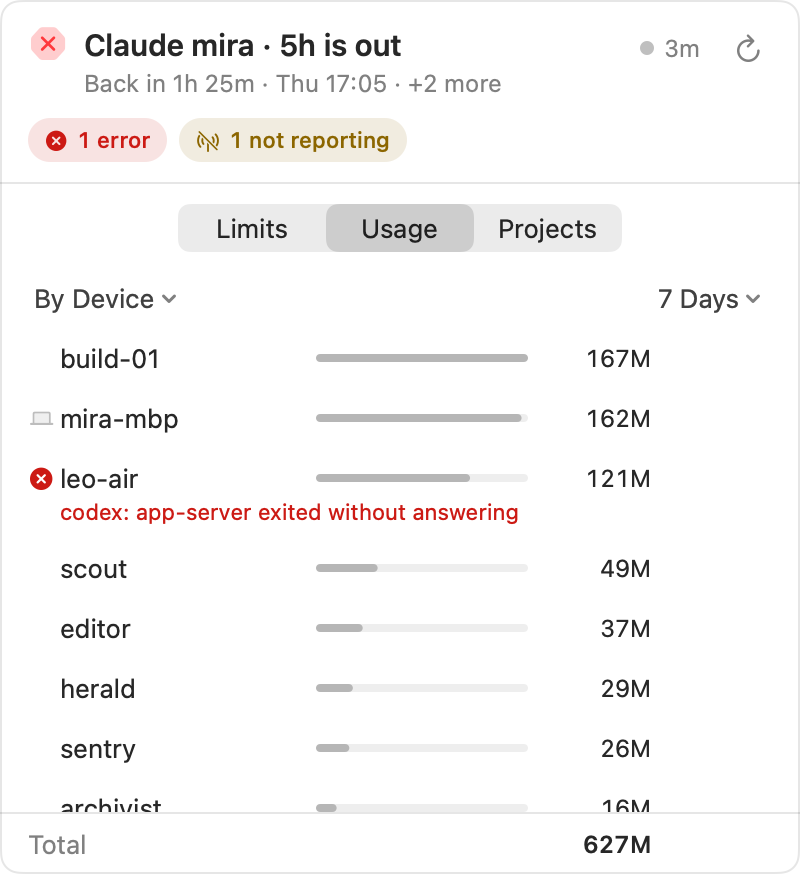
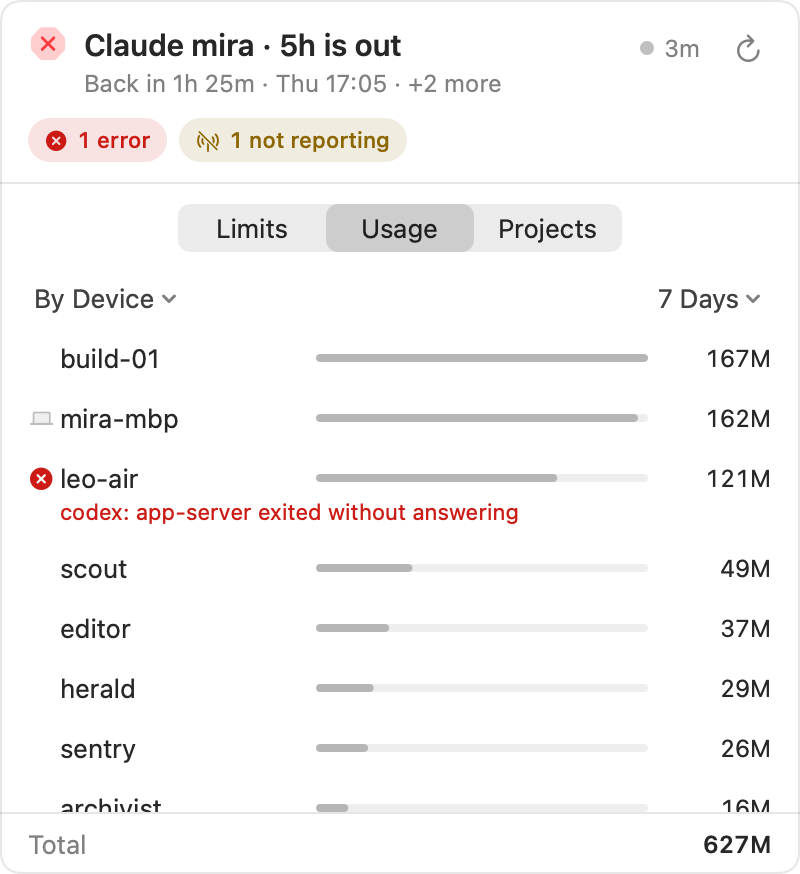
Show only the devices when a chip filters Usage, and end Usage's values at the margin.
A chip's filter showed the device list over the subscription list when Usage was by subscription. Usage's rows no longer keep an empty column for a countdown only Limits and Projects have. The lists scroll without a scroller: SwiftUI kept a legacy scroller's room after a tab switch even under an overlay style, which moved every column. The renderer draws Usage after each chip that filters it, from Usage by subscription.

diff --git a/macos/Sources/AIUsageBar/Style.swift b/macos/Sources/AIUsageBar/Style.swift
@@ -22,9 +22,10 @@ enum Metrics {
     /// the popover's edge, as a menu's highlight does.
     static let bleed: CGFloat = 9
 
-    // The grid every tab's rows share, so that switching tabs moves no
-    // column: a slot for a mark, the name, a bar that takes the rest, the
-    // value, and a trailing column for a countdown or an age.
+    // The grid every tab's rows share: a slot for a mark, the name, a bar
+    // that takes the rest, the value, and on Limits and Projects a trailing
+    // column for a countdown or an age. Usage has none, so its value ends
+    // at the margin rather than before an empty column.
     static let slot: CGFloat = 16
     static let name: CGFloat = 120
     static let gap: CGFloat = 8
@@ -428,7 +429,6 @@ struct TotalRow: View {
                         .font(.callout.weight(.semibold))
                         .monospacedDigit()
                         .frame(width: Metrics.value, alignment: .trailing)
-                    Color.clear.frame(width: Metrics.trailingGap + Metrics.trailing, height: 1)
                 }
             }
             .frame(height: Metrics.row)
@@ -543,42 +543,5 @@ struct MoreButton: View {
         .buttonStyle(.plain)
         .font(.callout)
         .foregroundStyle(.secondary)
-    }
-}
-
-/// Makes the scroll view it is in draw overlay scrollers, as the menu bar's
-/// own windows do, whatever System Settings says: a scroller that takes
-/// room of its own would move every column of a list that grows past the
-/// popover, as when a row opens.
-struct OverlayScrollers: NSViewRepresentable {
-    func makeNSView(context: Context) -> NSView { Probe() }
-    func updateNSView(_ view: NSView, context: Context) {
-        (view as? Probe)?.apply()
-    }
-
-    final class Probe: NSView {
-        override func viewDidMoveToWindow() {
-            super.viewDidMoveToWindow()
-            guard window != nil else { return }
-            apply()
-            NotificationCenter.default.removeObserver(self)
-            NotificationCenter.default.addObserver(self, selector: #selector(styleChanged),
-                                                   name: NSScroller.preferredScrollerStyleDidChangeNotification, object: nil)
-        }
-
-        @objc private func styleChanged() {
-            // After the scroll view has taken the new style itself.
-            DispatchQueue.main.async { [weak self] in
-                MainActor.assumeIsolated { self?.apply() }
-            }
-        }
-
-        func apply() {
-            guard let scroll = enclosingScrollView else { return }
-            if scroll.scrollerStyle != .overlay {
-                scroll.scrollerStyle = .overlay
-            }
-            scroll.autohidesScrollers = true
-        }
     }
 }

diff --git a/macos/Sources/AIUsageBar/Render.swift b/macos/Sources/AIUsageBar/Render.swift
@@ -40,10 +40,20 @@ enum Renderer {
                 if let d = report.team.devices.first(where: { $0.error != nil && !$0.silent }) ?? report.team.devices.first {
                     states.append(("usage-expanded", { $0.tab = .usage }, { $0.expanded = "dev:\(d.device)" }))
                 }
-                if let chip = Chip.chips(report).first(where: { $0.kind == .errors }) {
-                    states.append(("usage-filtered", { $0.tab = .limits }, {
+                // Usage after a click on each chip that filters it; the
+                // errors chip's is plain usage-filtered.
+                let filters: [(Chip.Kind, String, String)] = [
+                    (.errors, "usage-filtered", "Devices with errors"),
+                    (.silent, "usage-filtered-silent", "Devices not reporting"),
+                    (.notUpdating, "usage-filtered-not-updating", "Devices not updating"),
+                ]
+                for (kind, name, title) in filters {
+                    guard let chip = Chip.chips(report).first(where: { $0.kind == kind }) else { continue }
+                    // From Usage by subscription, so a filter that left that
+                    // list showing under the devices would show here.
+                    states.append((name, { $0.tab = .usage; $0.usageMode = .subscriptions }, {
                         $0.tab = .usage
-                        $0.deviceFilter = DeviceFilter(title: "Devices with errors", devices: Set(chip.devices), chip: chip.kind)
+                        $0.deviceFilter = DeviceFilter(title: title, devices: Set(chip.devices), chip: chip.kind)
                     }))
                 }
             }

diff --git a/macos/Sources/AIUsageBar/Usage.swift b/macos/Sources/AIUsageBar/Usage.swift
@@ -22,7 +22,8 @@ struct UsageView: View {
     }
 
     private func shown(_ mode: UsageMode, _ view: some View) -> some View {
-        let on = store.usageMode == mode || (mode == .devices && store.deviceFilter != nil)
+        // A chip's filter shows the devices whichever list was chosen.
+        let on = store.deviceFilter != nil ? mode == .devices : store.usageMode == mode
         return view
             .opacity(on ? 1 : 0)
             .allowsHitTesting(on)
@@ -171,7 +172,6 @@ private struct DeviceRow: View {
                     TokenBar(value: row.usage[p], top: top)
                         .padding(.horizontal, Metrics.gap)
                     TokensValue(tokens: row.usage[p])
-                    Color.clear.frame(width: Metrics.trailingGap + Metrics.trailing, height: 1)
                 }
                 .frame(height: Metrics.row)
                 if let note {
@@ -344,7 +344,6 @@ private struct ColumnRow: View {
                 TokenBar(value: c.usage[p], top: top)
                     .padding(.horizontal, Metrics.gap)
                 TokensValue(tokens: c.usage[p])
-                Color.clear.frame(width: Metrics.trailingGap + Metrics.trailing, height: 1)
             }
             .frame(height: Metrics.row)
         } details: {
@@ -441,7 +440,6 @@ private struct SoloRow: View {
                 .frame(maxWidth: .infinity)
                 .padding(.horizontal, Metrics.gap)
                 TokensValue(tokens: a.usage[p])
-                Color.clear.frame(width: Metrics.trailingGap + Metrics.trailing, height: 1)
             }
             .frame(height: Metrics.row)
         } details: {

diff --git a/macos/Sources/AIUsageBar/Popover.swift b/macos/Sources/AIUsageBar/Popover.swift
@@ -148,8 +148,7 @@ private struct TabPicker: View {
 /// itself, which blinks. Tabs of their own heights would do that on every
 /// switch; at one height, the popover keeps its size, and each tab keeps
 /// its scroll position. A tab's top line and total stay put while its list
-/// scrolls, and the scrollers overlay the list, so no column moves when a
-/// list grows past the popover.
+/// scrolls.
 private struct TabStack: View {
     @EnvironmentObject private var store: Store
     let report: Report
@@ -166,8 +165,14 @@ private struct TabStack: View {
                                 .padding(.horizontal, Metrics.inset)
                                 .padding(.bottom, 12)
                                 .measure(tab)
-                                .background(OverlayScrollers())
                         }
+                        // A scroller that takes room of its own, as System
+                        // Settings can ask for, would move every column of
+                        // a list that grows past the popover; SwiftUI keeps
+                        // that room even under an overlay style, so the
+                        // list scrolls without one, and its cut last row
+                        // over the total shows there is more.
+                        .scrollIndicators(.never)
                         .onChange(of: store.scrollTarget) { _, key in
                             guard tab == .limits, let key else { return }
                             proxy.scrollTo(key, anchor: .top)

diff --git a/design.md b/design.md
@@ -225,7 +225,7 @@ The popover answers the same questions as the page, in the same order, in 400 po
 - **A row is the account's state.** A Limits row shows its main window's bar and percent, and the account's state from the report: when another window stops it, the row takes that window's mark and counts down to when it is back, with the window named under it.
 - **Details on click.** A row is one line of numbers. A click opens its details under it, one row at a time, as a few lines of a dim label and a value: each window in what is left and will be at its reset, the devices that used it, errors, releases, paths, and the tokens of each period as a small table with the chosen one bright. What the row shows is not said again. Tooltips carry who read a window, and what a word or glyph needs.
 - **Projects by repository.** A project is a repository with its subfolders and worktrees. Projects next to each other in one folder show under its name, the ones on their own under "Other", in the report's order. Their last activity reads "20m ago", so it never passes for a countdown.
-- **Nothing blinks or jumps.** The popover takes its height from Limits, the tab people open it for, and keeps it while it is open, so switching tabs, opening details, and "Show All" scroll inside it; Usage keeps its top line and its total in place as its list scrolls. Scrollers overlay the list, whatever System Settings says, and every tab lays its rows on one grid, so no column moves. It opens on the last tab, with every row closed.
+- **Nothing blinks or jumps.** The popover takes its height from Limits, the tab people open it for, and keeps it while it is open, so switching tabs, opening details, and "Show All" scroll inside it; Usage keeps its top line and its total in place as its list scrolls. The lists scroll without a scroller, since one that takes room of its own, as System Settings can ask for, would move every column; a cut last row shows there is more. The tabs lay their rows on one grid of mark, name, bar, and value, with a trailing column for a countdown on Limits and an age on Projects; Usage has none, so its values end at the margin. It opens on the last tab, with every row closed.
 - **Type.** Nothing smaller than 11 points. Numbers are monospaced digits, tokens are whole millions, and durations have at most two units, as on the page.
 
 The menu bar item is a ring of what is left of the tightest window, drawn from 12 o'clock like a battery, with its percent left, the time until its reset, or nothing, as Settings picks. It is a template image, in the menu bar's own color, until a window runs out or will. One that will is an orange arc over an orange tint; one that is out, the most urgent, is the strongest mark, a solid red disc with a white cross, and the item shows the time until it is back.

diff --git a/docs/demo/README.md b/docs/demo/README.md
@@ -64,7 +64,7 @@ The script regenerates the two reports and builds `ai-usage`. It shows each pict
 The menu bar app draws its own pictures with `AIUsageBar --render REPORT OUTDIR`, which writes them in light and dark as PNGs into `OUTDIR` and exits. It reads the report instead of running `ai-usage`, and takes its `generated_at` as the time now, so the ages and countdowns match the terminal pictures. On macOS, `shots.ts` runs it on `team.json` and copies the pictures above into place; `bun scripts/demo/shots.ts app` makes only those. For each look, `light` or `dark`, the renderer writes:
 
 - `popover-TAB-LOOK.png`, each tab as tall as the popover shows it, and `popover-TAB-full-LOOK.png`, the whole tab. TAB is `limits`, `usage`, `usage-subscriptions` (Usage by subscription), and `projects`; a report of one device has no `usage-subscriptions`
-- `popover-STATE-LOOK.png`, the popover after a click: `limits-expanded`, `usage-expanded`, and `projects-expanded`, a row opened; `usage-filtered`, Usage after a click on the errors chip; and `calm`, the popover with nothing out or running out
+- `popover-STATE-LOOK.png`, the popover after a click: `limits-expanded`, `usage-expanded`, and `projects-expanded`, a row opened; `usage-filtered`, `usage-filtered-silent`, and `usage-filtered-not-updating`, Usage after a click on the chip of devices with errors, not reporting, or not updating, from Usage by subscription; and `calm`, the popover with nothing out or running out
 - `popover-STATE-LOOK.png`, the popover with no report to show: `loading`, `not-installed`, `not-collected`, `mismatch` (a report of another schema), and `failed`
 - `settings-PANE-LOOK.png`, each Settings pane: `general`, `accounts`, and `team`
 - `menubar-LOOK.png`, the app's item in the menu bar with the popover on Limits under it, and `menubar-states-LOOK.png`, the item in each state
